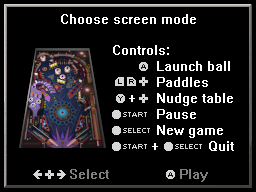
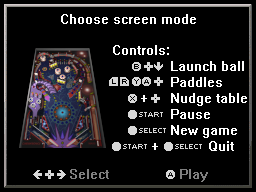
modify controls for normal screen mode

Changed region(s): [[0.4062, 0.3125, 0.9688, 0.625], [0.4375, 0.6562, 0.9375, 0.7188]]

diff --git a/arm9/src/nds_input.cpp b/arm9/src/nds_input.cpp
@@ -11,10 +11,10 @@ void nds_input::Initialize()
 {
 	if (!ndsfb_graphics::isRotated())
 	{
-		nudgeKey = KEY_Y;
-		launchKey = KEY_A;
-		leftKey = KEY_LEFT | KEY_L;
-		rightKey = KEY_RIGHT | KEY_R;
+		nudgeKey = KEY_X;
+		launchKey = KEY_DOWN | KEY_B;
+		leftKey = KEY_LEFT | KEY_Y | KEY_L;
+		rightKey = KEY_RIGHT | KEY_A | KEY_R;
 		upKey = KEY_UP;
 	}
 	else
